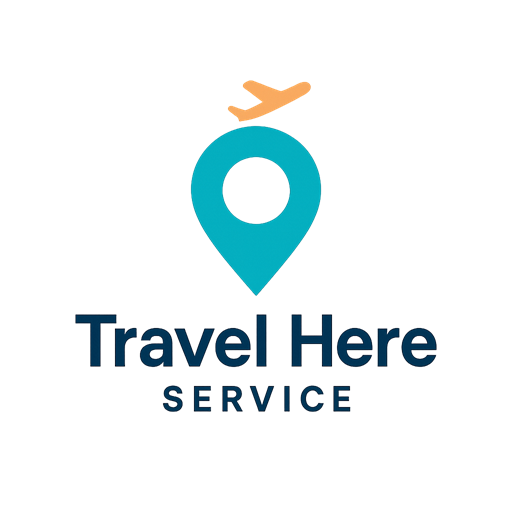
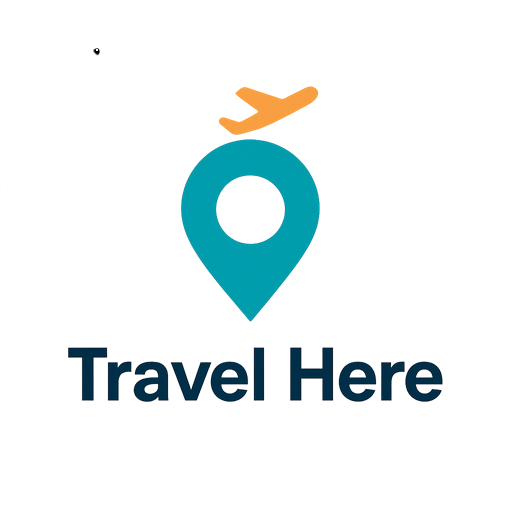
로고사이즈확대

Changed region(s): [[0.125, 0.1562, 0.875, 0.8125]]

diff --git a/index.html b/index.html
@@ -1713,7 +1713,7 @@
 </head>
 <body>
   <div class="header">
-    <img src="assets/travelhereservice.png" alt="TravelHereService Logo" style="height:48px; margin-right:18px; vertical-align:middle; border-radius:12px; box-shadow:0 2px 8px #0001; background:#fff;" />
+    <img src="assets/travelhereservice.png" alt="TravelHereService Logo" style="height:68px; margin-right:18px; vertical-align:middle; border-radius:12px; box-shadow:0 2px 8px #0001; background:#fff;" />
     <div class="header-title">Travel Here Service</div>
     <div class="header-search">
       <input id="destination" placeholder="현재 위치 검색 결과" style="color:#888;" />
